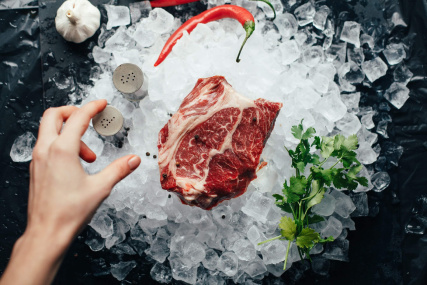
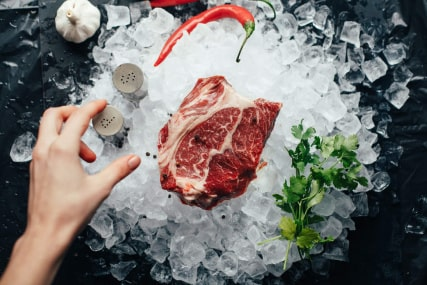
image optimization add content

diff --git a/index.html b/index.html
@@ -8,18 +8,30 @@
     <link href="https://fonts.googleapis.com/css2?family=Montserrat:wght@400;500;600&display=swap" rel="stylesheet"> 
     <link href="https://fonts.googleapis.com/css2?family=MonteCarlo&display=swap" rel="stylesheet"> 
     <script src="https://kit.fontawesome.com/ca86d9adec.js" crossorigin="anonymous"></script>
-
     <link rel="stylesheet" href="https://cdnjs.cloudflare.com/ajax/libs/Swiper/8.4.3/swiper-bundle.css"
     integrity="sha512-mXY1LeioQ/fb7ALXZiaUvv0UAapAWkF1UI7X+4lXOJySh13sVf/4WG+01splhtJrp39UL9Sq3e8JWsbhf2sm2Q=="
-    crossorigin="anonymous" referrerpolicy="no-referrer" />
-
+    crossorigin="anonymous" referrerpolicy="no-referrer"/>
     <link rel="stylesheet" href="css/style.css">
     <script defer src="https://cdnjs.cloudflare.com/ajax/libs/Swiper/8.4.3/swiper-bundle.min.js"
     integrity="sha512-4MIWP9ui3MVR0iuCnJ9l6b9DWrCspboU0BbX5DNXoSJ4ZQXjrY7+sPJEehrR0rAx88jVUT9f9Hoa7fawwB3jHg=="
     crossorigin="anonymous" referrerpolicy="no-referrer"></script>
-
-
+    <meta name="description" content="Restaurant Meana"/>
+    <meta name="keywords" content="Restaurant, Meana, food, meal"/>
+    <meta property="og:site_name" name="og:site_name" content="Restaurant Meana"/>
+    <meta property="og:title" name="og:title" content="Restaurant Meana" />
+    <meta property="og:description" name="og:description" content="Restaurant Meana"/>
+    <meta property="og:url" name="og:url" content="https://restaurantmeana.com/"/>
+    <meta property="og:type" name="og:type" content="website" />
+    <meta property="og:image" name="og:image" content="https://restaurantmeana.com/wp-content/uploads/2021/10/10PS.jpg"/>
+    <meta property="og:image:width" name="og:image:width" content="1200"/>
+    <meta property="og:image:height" name="og:image:height" content="630"/>
+    <meta name="DC.title" content="Restaurant Meana"/>
+    <meta name="twitter:title" content="Restaurant Meana"/>
+    <meta name="twitter:description" content="Restaurant Meana"/>
+    <meta name="twitter:image" content="https://restaurantmeana.com/wp-content/uploads/2021/10/10PS.jpg"/>
+    <meta name="twitter:card" content="summary_large_image"/>
     <title>Restaurant Meana | Home</title>
+    <meta name='robots' content='max-image-preview:large'/>
 </head>
 <body>
     <header class="header">
@@ -69,12 +81,12 @@
     <section class="hero">
          <video src="img/video/video-promo.mp4" id="video-promo" class="hero__video" autoplay loop plays-inline ></video>
          <div class="hero__text">
-            <h1>Heading</h1>
+            <h1>Kultni simbol Beograda</h1>
             <p class="p-large">
                 Lorem ipsum dolor sit amet, consetetur sadipscing elitr, sed diam nonumy eirmod tempor invidunt ut labore et dolore.
             </p>
             <a href="#" class="btn">
-                CTA
+                Rezervacije
                 <i class="fa-solid fa-arrow-right"></i>
             </a>
          </div>
@@ -82,7 +94,7 @@
     <section class="brand-slider">
         <div class="container">
             <div class="brand-slider__info">
-                <h2>Partners</h2>
+                <h2>Partneri</h2>
                 <p>
                     Sed ut perspiciatis unde omnis iste natus error sit voluptatem accusantium doloremque
                     laudantium.
@@ -92,19 +104,19 @@
                 <div class="swiper js-brand-slider">
                     <div class="swiper-wrapper">
                         <div class="swiper-slide">
-                            <a href="#"> <img src="img/frikom.png" alt="frikom"></a>
+                            <a href="https://www.frikom.rs/rs" target="_blank"> <img src="img/frikom.png" alt="frikom"></a>
                         </div>
                         <div class="swiper-slide">
-                            <a href="#"> <img src="img/my-chef.png" alt="my-chef"></a>
+                            <a href="https://mychef.at/" target="_blank"> <img src="img/my-chef.png" alt="my-chef"></a>
                         </div>
                         <div class="swiper-slide">
-                            <a href="#"> <img src="img/dr-oetker.png" alt="dr.oetker"></a>
+                            <a href="https://www.oetker.rs/rs-sr/index" target="_blank"> <img src="img/dr-oetker.png" alt="dr.oetker"></a>
                         </div>
                         <div class="swiper-slide">
-                            <a href="#"> <img src="img/neoplanta.png" alt="neoplanta"></a>
+                            <a href="https://neoplanta.rs/" target="_blank"> <img src="img/neoplanta.png" alt="neoplanta"></a>
                         </div>
                         <div class="swiper-slide">
-                            <a href="#"> <img src="img/nutrino-lab.png" alt="nutrino-lab"> </a>
+                            <a href="https://www.nutrinolab.com/" target="_blank"> <img src="img/nutrino-lab.png" alt="nutrino-lab"> </a>
                         </div>
                     </div>
                 </div>
@@ -130,7 +142,7 @@
     <section class="news">
         <div class="container">
             <div class="news__info">
-                <h2>News section</h2>
+                <h2>Nasa ponuda</h2>
                 <p>
                     Sed ut perspiciatis unde omnis iste natus error sit voluptatem accusantium doloremque laudantium.
                 </p>
@@ -139,7 +151,7 @@
                 <div class="news__item">
                     <div class="news__image">
                         <div class="media-wrapper">
-                            <img src="img/blog-img1.jpg" alt="">
+                            <img src="img/blog-img1.jpg" alt="meat">
                         </div>
                     </div>
                     <div class="news__text">
@@ -147,17 +159,17 @@
                             09.05.2021 | 2 min read
                         </p>
                         <h3>
-                            LOREM IPSUM DOLOR SIT AMET, CONSETETUR SADIPSCING ELITR
+                            POGLEDAJTE NASU PONUDU VRHUNSKIH SPECIJALITETA OD MESA
                         </h3>
                         <a href="" class="btn btn--outline">
-                            CTA
+                            PROCITAJ VISE
                         </a>
                     </div>
                 </div>
                 <div class="news__item">
                     <div class="news__image">
                         <div class="media-wrapper">
-                            <img src="img/vege.jpg" alt="">
+                            <img src="img/blog-img2.jpg" alt="fish">
                         </div>
                     </div>
                     <div class="news__text">
@@ -165,17 +177,17 @@
                             09.05.2021 | 2 min read
                         </p>
                         <h3>
-                            LOREM IPSUM DOLOR SIT AMET, CONSETETUR SADIPSCING ELITR
+                            POGLEDAJTE NASU PONUDU VRHUNSKIH RIBLJIH SPECIJALITETA
                         </h3>
                         <a href="" class="btn btn--outline">
-                            CTA
+                            PROCITAJ VISE
                         </a>
                     </div>
                 </div>
                 <div class="news__item">
                     <div class="news__image">
                         <div class="media-wrapper">
-                            <img src="img/blog-img1.jpg" alt="">
+                            <img src="img/blog-img3.jpg" alt="cookies">
                         </div>
                     </div>
                     <div class="news__text">
@@ -183,10 +195,10 @@
                             09.05.2021 | 2 min read
                         </p>
                         <h3>
-                            LOREM IPSUM DOLOR SIT AMET, CONSETETUR SADIPSCING ELITR
+                            POGLEDAJTE NASU PONUDU VRHUNSKIH DOMACIH KOLACA
                         </h3>
-                        <a href="" class="btn btn--outline">
-                            CTA
+                        <a href="#" class="btn btn--outline">
+                            PROCITAJ VISE
                         </a>
                     </div>
                 </div>
@@ -197,12 +209,12 @@
         <div class="container">
             <div class="hero-promo__wrapper">
                 <div class="hero-promo__text">
-                    <h1>Heading</h1>
+                    <h1>O Meani</h1>
                     <p>
                         Lorem ipsum dolor sit amet, consetetur sadipscing elitr, sed diam nonumy eirmod tempor invidunt ut labore et dolore.
                     </p>
                     <a href="#" class="btn">
-                        CTA
+                        Galerija
                     </a>
                  </div>
                  <div class="hero-promo__image">
@@ -221,7 +233,7 @@
                     <h1>Restaurant Meana</h1>
                 </a>
             </div>
-            <span class="footer__address">Address 123, City</span>
+            <span class="footer__address">Vojvode Stepe 206, Beograd 11000</span>
             <div class="footer__links">
                 <nav class="footer__navbar">
                     <ul class="footer__navbar-list">
@@ -269,7 +281,6 @@
     </footer>
     
     <script src="js/main.js"></script> 
-
-    
+   
 </body>
 </html>

diff --git a/css/style.css b/css/style.css
@@ -732,14 +732,45 @@ a {
   align-items: center;
   justify-content: center;
 }
+@media (max-width: 1200px) {
+  .brand-slider .swiper__arrows .icon-arrow {
+    width: 30px;
+    height: 30px;
+  }
+}
+@media (max-width: 565px) {
+  .brand-slider .swiper__arrows .icon-arrow {
+    display: none;
+  }
+}
 .brand-slider .swiper__arrows .icon-arrow--prev {
   left: -100px;
+}
+@media (max-width: 1400px) {
+  .brand-slider .swiper__arrows .icon-arrow--prev {
+    left: -50px;
+  }
+}
+@media (max-width: 1200px) {
+  .brand-slider .swiper__arrows .icon-arrow--prev {
+    left: -20px;
+  }
 }
 .brand-slider .swiper__arrows .icon-arrow--prev svg {
   margin-left: -3px;
 }
 .brand-slider .swiper__arrows .icon-arrow--next {
   right: -100px;
+}
+@media (max-width: 1400px) {
+  .brand-slider .swiper__arrows .icon-arrow--next {
+    right: -50px;
+  }
+}
+@media (max-width: 1200px) {
+  .brand-slider .swiper__arrows .icon-arrow--next {
+    right: -20px;
+  }
 }
 .brand-slider .swiper__arrows .icon-arrow--next svg {
   transform: scaleX(-1);
@@ -844,6 +875,9 @@ a {
   margin: 0 16px;
   overflow: hidden;
 }
+.news__item:hover img {
+  transform: scale(1.3);
+}
 @media (max-width: 992px) {
   .news__item {
     margin: 16px;
@@ -880,6 +914,7 @@ a {
 }
 .news__image .media-wrapper img {
   border-radius: 20px;
+  transition: transform 2s;
 }
 .news__text {
   padding: 28px 44px 32px 44px;

diff --git a/scss/layout/_brand-slider.scss b/scss/layout/_brand-slider.scss
@@ -55,14 +55,33 @@
 				display: flex;
 				align-items: center;
 				justify-content: center;
+                @include respond-to('large') {
+                    width: 30px;
+                    height: 30px;
+                }
+                @include respond-to('extra-small') {
+                    display: none;
+                }
         		&--prev {
 					left: -100px;
+                    @include respond-to('medium-large') {
+                        left: -50px;
+                    }
+                    @include respond-to('large') {
+                        left: -20px;
+                    }
 					svg {
 						margin-left: -3px;
 					}
 				}
 				&--next {
 					right: -100px;
+                    @include respond-to('medium-large') {
+                        right: -50px;
+                    }
+                    @include respond-to('large') {
+                        right: -20px;
+                    }
 					svg {
 						transform: scaleX(-1);
 						margin-right: -3px;

diff --git a/scss/layout/_news.scss b/scss/layout/_news.scss
@@ -46,6 +46,9 @@
         width: 33.333%;
         margin: 0 16px;
         overflow: hidden;
+        &:hover img {
+            transform: scale(1.3);
+        }
         @include respond-to('medium') {
             margin: 16px;
             width: calc(50% - 32px);
@@ -75,6 +78,7 @@
             padding-bottom: 66.5%;
             img {
                 border-radius: 20px;
+                transition: transform 2s;
             }
         }
     }
